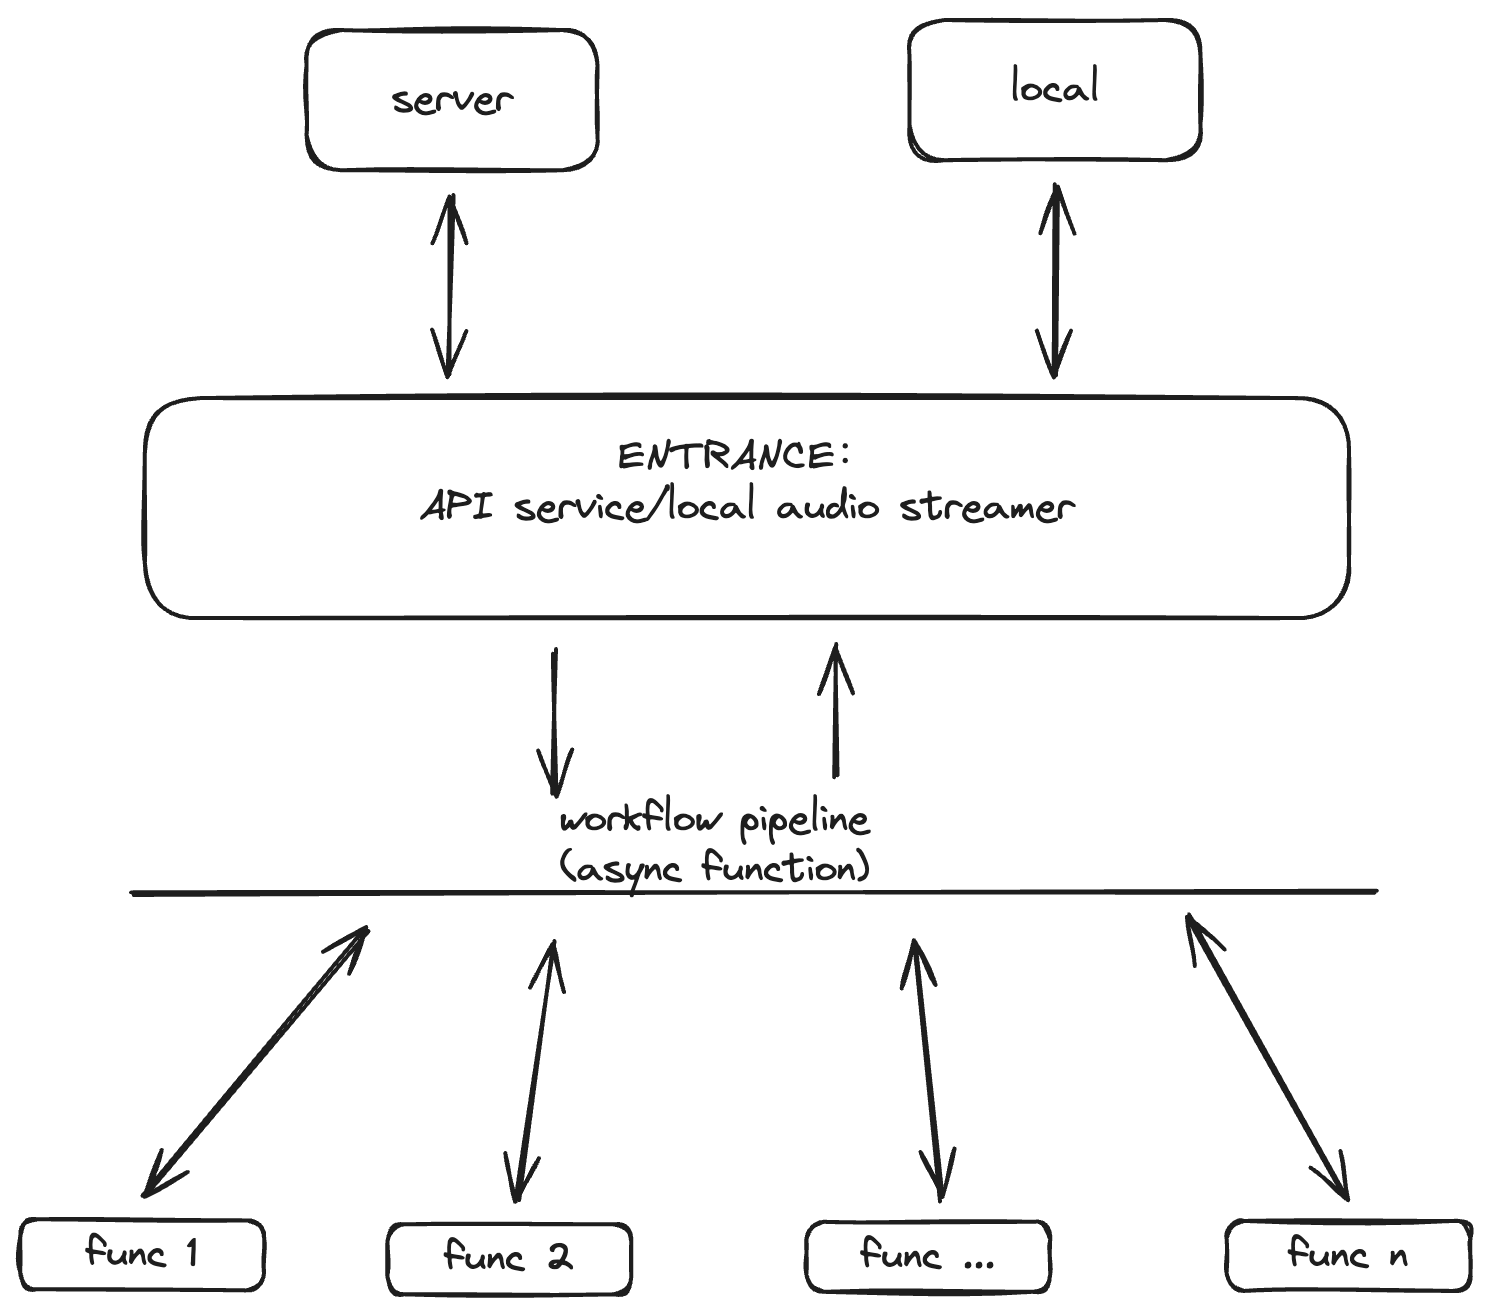
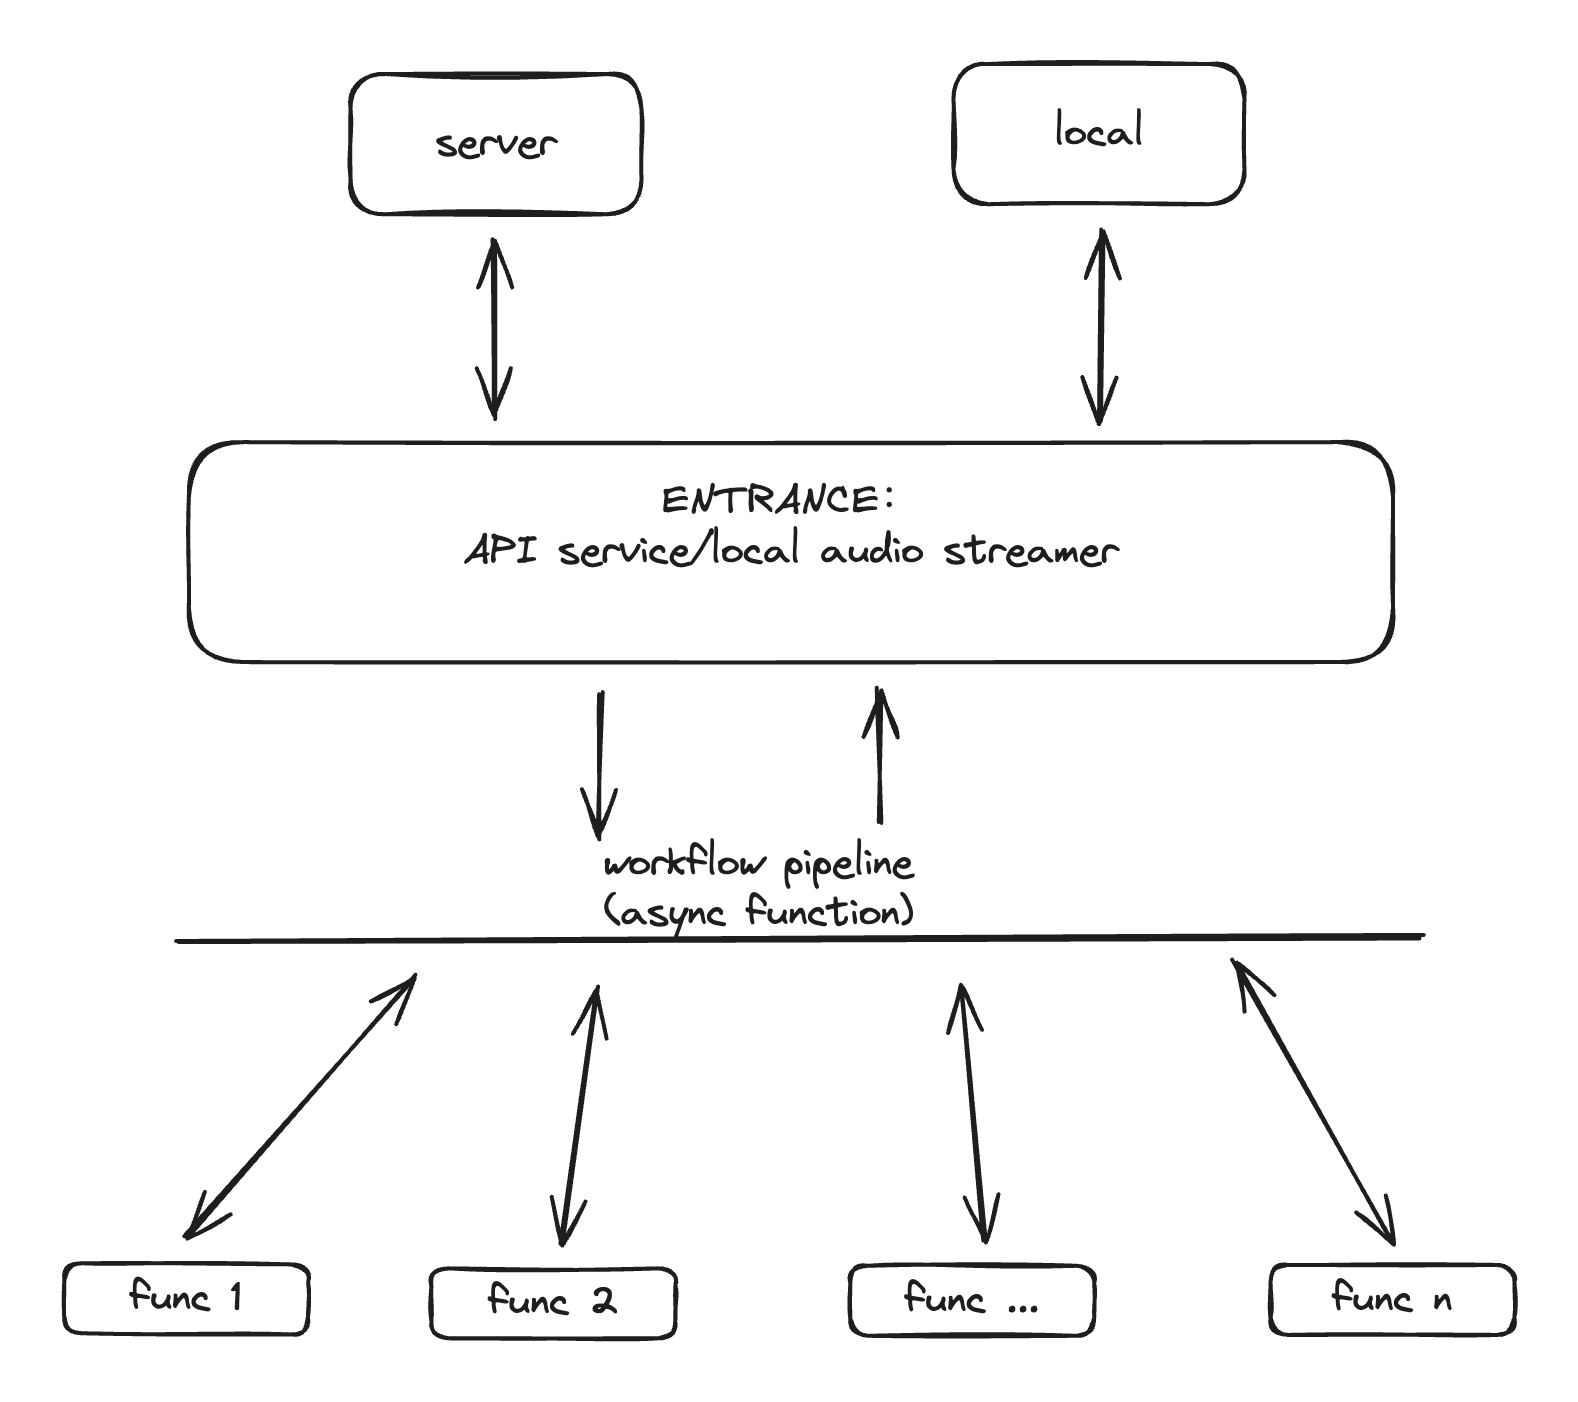
update README

diff --git a/README.md b/README.md
@@ -2,23 +2,94 @@
 
 A tool that allows users to quickly customize LLM chatbot workflow pipelines, like Text-to-Text, Text-to-Speech or Speech-to-Speech
 
-## Design
+## Overview
+
+This project is an asynchronous LLM chatbot task workflow management tool, where each function is an independent module, and the data input and output are circulated in the data flow pipeline.
 
 ![pipeline structure](./docs/img/pipeline%20structure.png)
 
-本项目是基于异步实现的LLM chatbot任务工作流管理工具，每个function都是一个独立的模块，通过task_schedule决定模块各自之间的衔接关系，数据的输入输出在数据流管道中进行流转。
-
 ## Module
+
+The entire workflow is executed through three modules, task_schedule, func_tools, workflow_pipeline, and main is the entry point of the program.
+
+- task_schedule: responsible for task scheduling  
+- func_tools: responsible for the specific implementation of tasks
+- workflow_pipeline: responsible for the operation of the task pipeline and environment initialization
+- main: program entry, defines the input and output of workflow_pipeline (API or Audio)
 
 ![pipeline structure](./docs/img/pipeline%20function%20implementation.png)
 
-通过三个模块实现整个工作流程的管理，分别是task_schedule、tools、workflow_pipeline。
-task_schedule负责任务的调度，tools负责任务的管理，workflow_pipeline负责任务管道的流转。
-
 ## Instance
 
-本项目实现了两个实例，分别是Text-to-Text和Speech-to-Speech。
+This project implements two instances, Text-to-Text and Speech-to-Speech.
+> VAD, TTS, and STT refer to the implementation code in HuggingFace's [speech-to-speech](https://github.com/huggingface/speech-to-speech.git).
 
 ![pipeline instance](./docs/img/pipeline%20instance.png)
 
 ## Usage
+
+```shell
+# clone the repo
+git clone https://github.com/sxinyuhoo/lite-speech2speech-pipeline.git
+cd lite-speech2speech-pipeline
+
+# install the dependencies
+pip install -r requirements.txt
+
+# run the main.py
+python module/main.py
+```
+
+## Citation
+
+- VAD
+
+```bibtex
+@misc{Silero VAD,
+  author = {Silero Team},
+  title = {Silero VAD: pre-trained enterprise-grade Voice Activity Detector (VAD), Number Detector and Language Classifier},
+  year = {2021},
+  publisher = {GitHub},
+  journal = {GitHub repository},
+  howpublished = {\url{https://github.com/snakers4/silero-vad}},
+  commit = {insert_some_commit_here},
+  email = {hello@silero.ai}
+}
+```
+
+- STT
+
+```bibtex
+@misc{gandhi2023distilwhisper,
+      title={Distil-Whisper: Robust Knowledge Distillation via Large-Scale Pseudo Labelling},
+      author={Sanchit Gandhi and Patrick von Platen and Alexander M. Rush},
+      year={2023},
+      eprint={2311.00430},
+      archivePrefix={arXiv},
+      primaryClass={cs.CL}
+}
+```
+
+- TTS
+
+```bibtex
+@software{zhao2024melo,
+  author={Zhao, Wenliang and Yu, Xumin and Qin, Zengyi},
+  title = {MeloTTS: High-quality Multi-lingual Multi-accent Text-to-Speech},
+  url = {https://github.com/myshell-ai/MeloTTS},
+  year = {2023}
+}
+```
+
+- speech-to-speech
+
+```bibtex
+@software{speech-to-speech,
+  author = {Hugging Face},
+  title = {Speech To Speech: an effort for an open-sourced and modular GPT4-o},
+  year = {2024},
+  publisher = {GitHub},
+  journal = {GitHub repository},
+  url = {https://github.com/huggingface/speech-to-speech.git}
+}
+```
